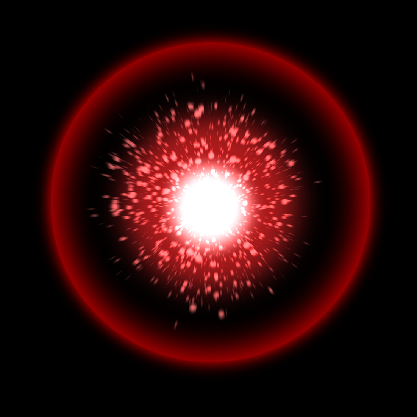
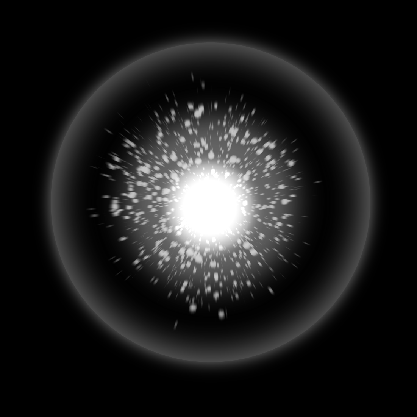
createparticleにeend,startCol追加　playerの弾シアン→マゼンタ　effect01画像を白黒にしてプログラム内で色変えるように

Changed region(s): [[0.0935, 0.0624, 0.9041, 0.9041], [0.2494, 0.2494, 0.7482, 0.7482], [0.53, 0.7482, 0.5612, 0.7794]]

diff --git a/sln/Particle/ParticleManager.cpp b/sln/Particle/ParticleManager.cpp
@@ -491,7 +491,8 @@ void ParticleManager::CreateModel()
 	vbView.StrideInBytes = sizeof(VertexPos);
 }
 
-void ParticleManager::CreateParticle(const XMFLOAT3& pos, UINT particleNum, float startScale, float vel)
+void ParticleManager::CreateParticle(const XMFLOAT3& pos, UINT particleNum, float startScale, float vel,
+		XMFLOAT3 startColor, XMFLOAT3 endColor)
 {
 	for (UINT i = 0; i <= particleNum; i++) {
 		const float thata = rand() % 180 / 180.f * XM_PI;
@@ -503,6 +504,6 @@ void ParticleManager::CreateParticle(const XMFLOAT3& pos, UINT particleNum, floa
 	r * cosf(thata),
 	r * sinf(thata) * sinf(phi) };
 
-		Add(30, pos, vel, XMFLOAT3(vel.x / +10, vel.y / +10, vel.z / +10), startScale, 0);
+		Add(30, pos, vel, XMFLOAT3(vel.x / +10, vel.y / +10, vel.z / +10), startScale, 0, startColor, endColor);
 	}
 }

diff --git a/sln/GameChar/Player.cpp b/sln/GameChar/Player.cpp
@@ -184,7 +184,7 @@ void Player::PlayerDeath()
 		ExplosionFlag = true;
 		// 音声再生 鳴らしたいとき
 		GameSound::GetInstance()->PlayWave("destruction1.wav", 0.2f);
-		particle->CreateParticle(NowPos, 50, 30, 10);
+		particle->CreateParticle(NowPos, 50, 30, 10, { 0,1,1 }, { 1,0,1 });
 		PartTimeInterval = 0;
 		ParticleFrame = 0;
 	}
@@ -254,8 +254,8 @@ void Player::Update()
 			bullet->GetPosition(),
 			{ 0,0,0 },
 			{ 0,0,0 },
-			50.f, 0.f,
-			{ 0,1,1 }, { 1,0,1 });
+			100.f, 0.f,
+			{ 0,0.75f,0.75f }, { 1,0,1 });
 	}
 
 	//生きててHp０いじょうなら

diff --git a/sln/Particle/ParticleManager.h b/sln/Particle/ParticleManager.h
@@ -149,7 +149,8 @@ public: // メンバ関数
 	/// </summary>
 	void CreateModel();
 
-	void CreateParticle(const XMFLOAT3& pos, UINT particleNum, float startScale, float vel);
+	void CreateParticle(const XMFLOAT3& pos, UINT particleNum, float startScale, float vel,
+		XMFLOAT3 startColor = { 1,1,1 }, XMFLOAT3 endColor = { 1,1,1 });
 
 private: // メンバ変数
 	// デバイス
